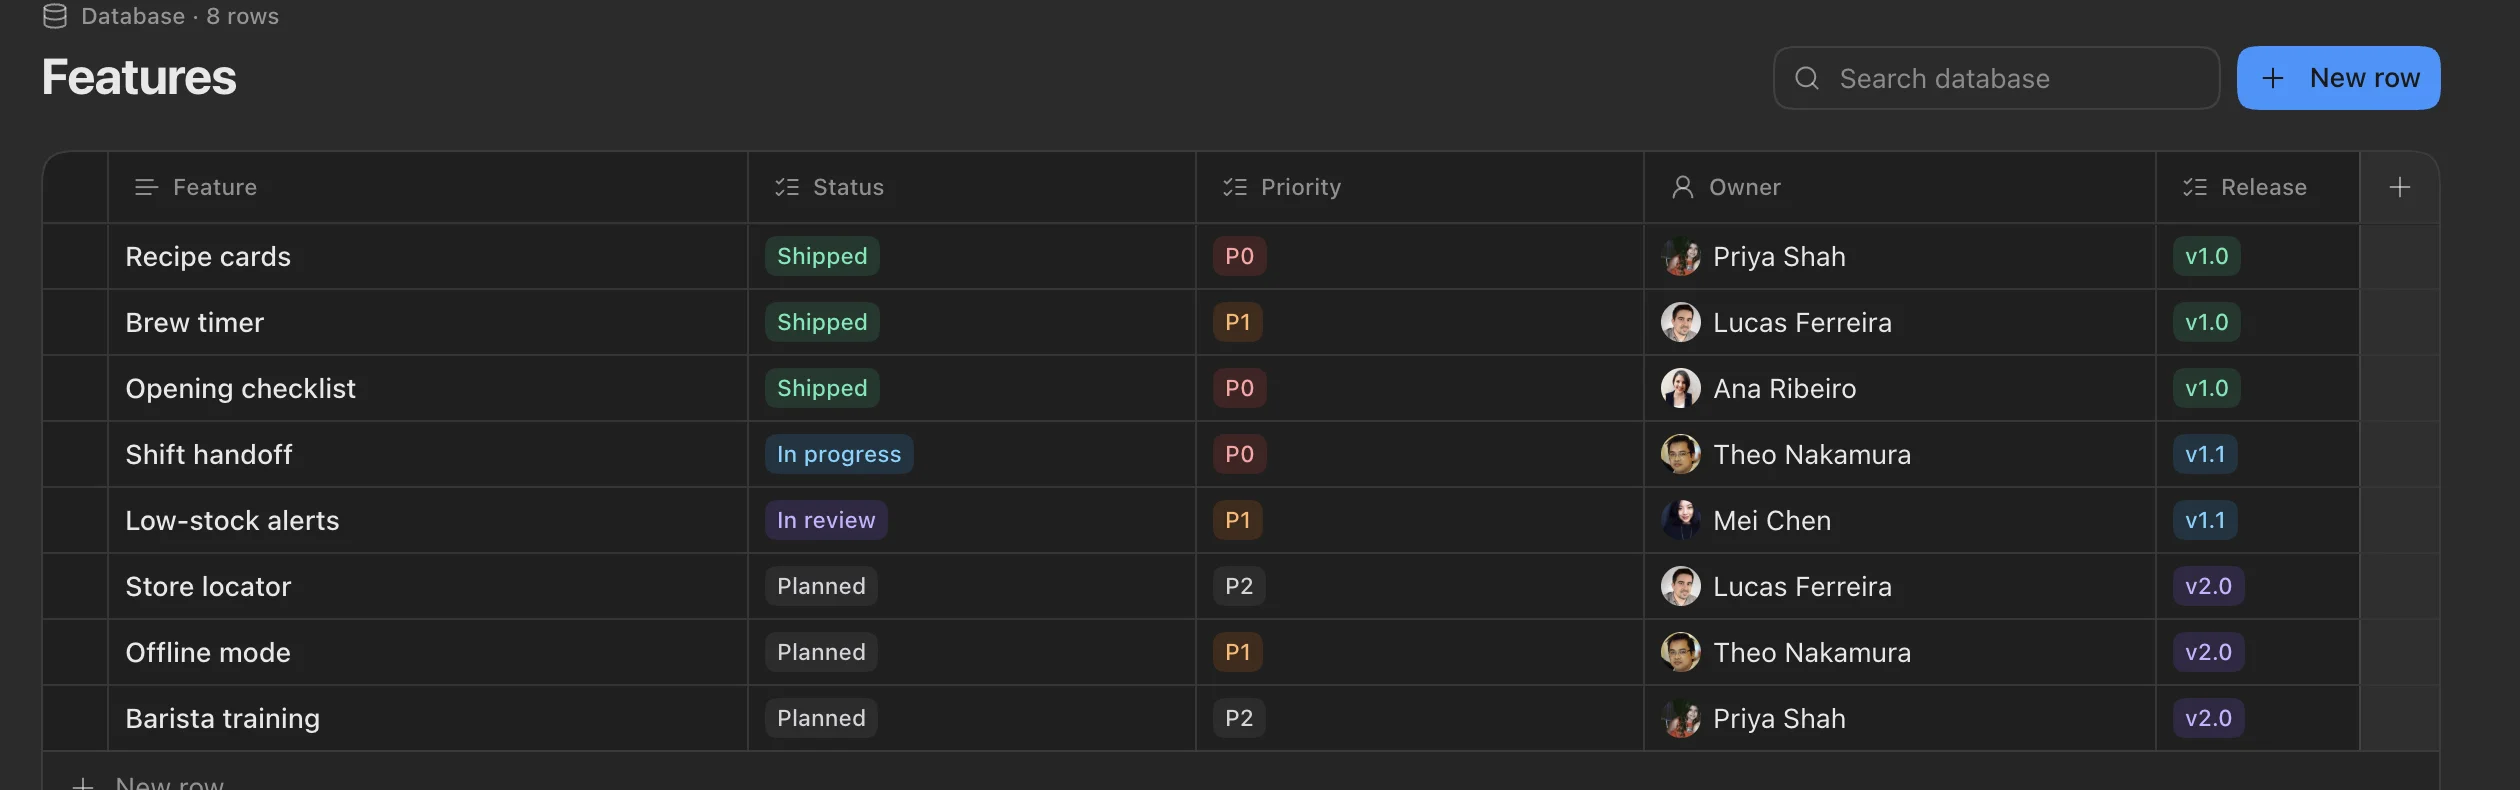
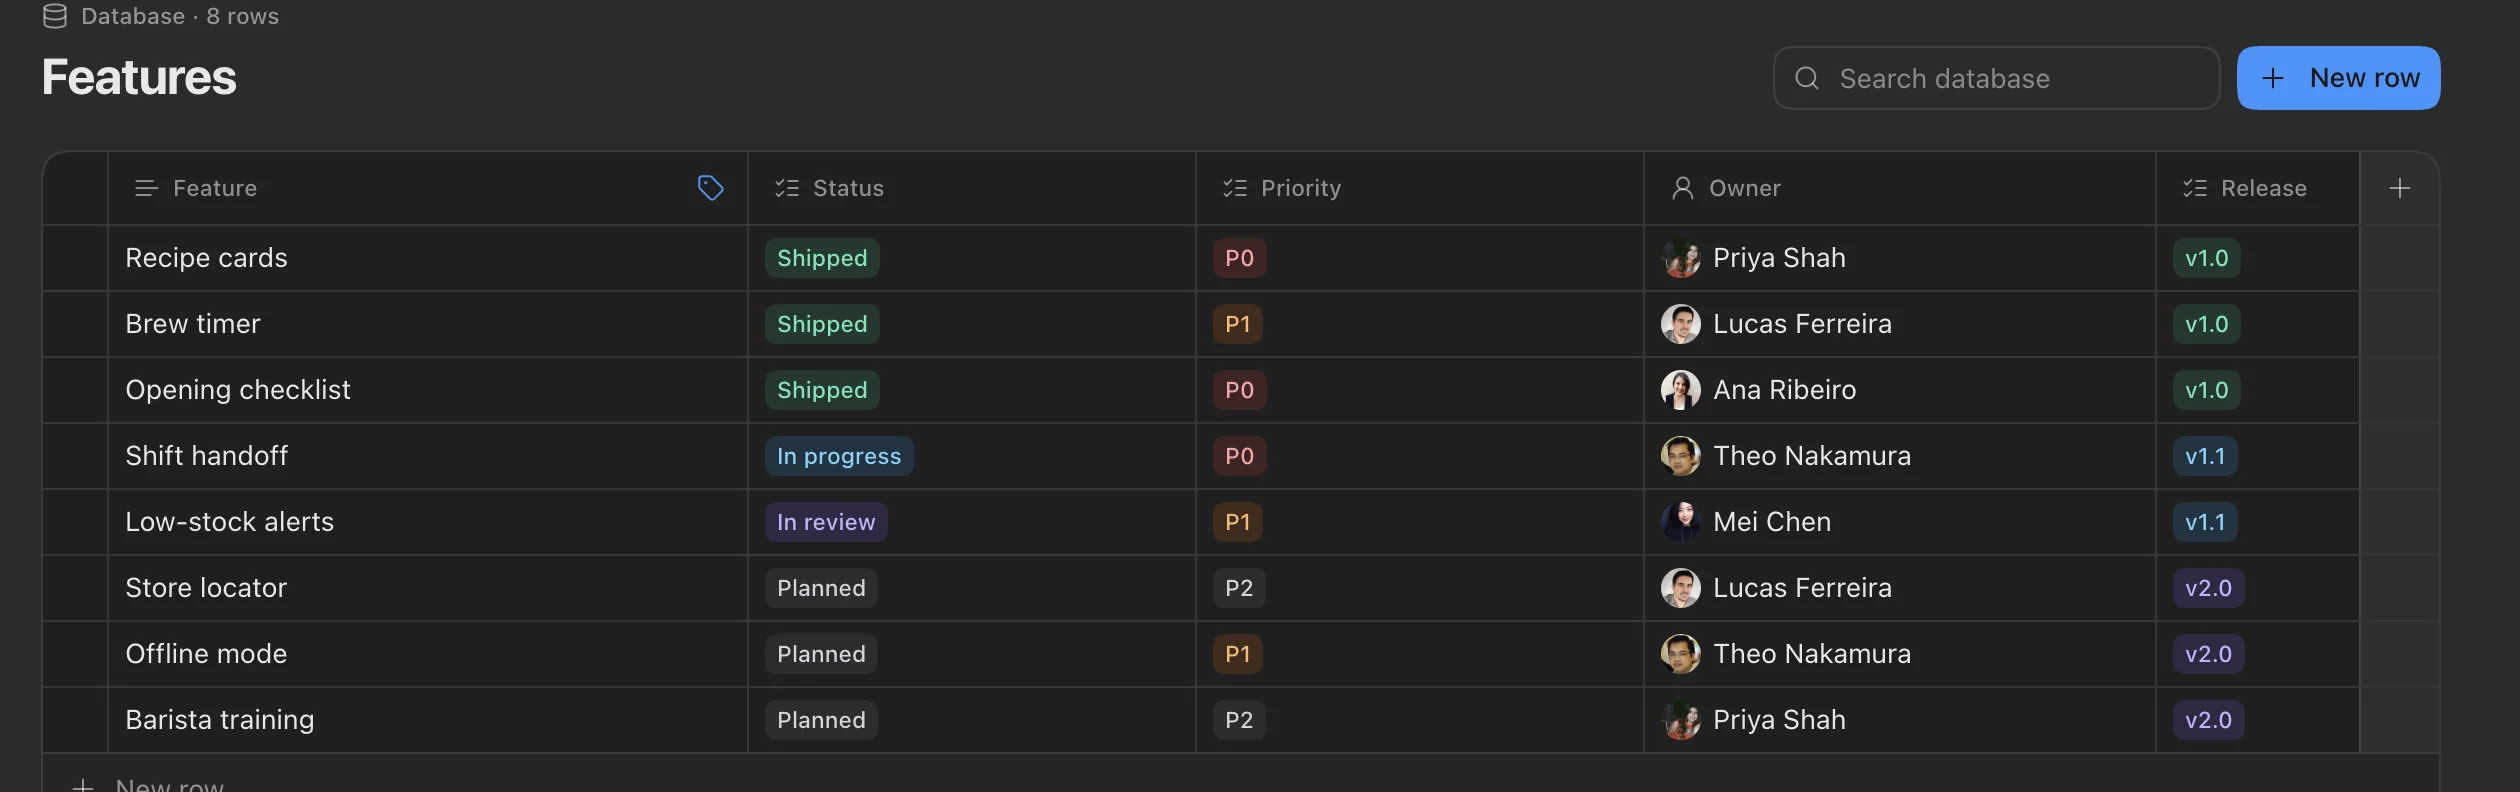
Help: data views made by Claude, column order, label column, Group by

diff --git a/src/content/docs/databases.md b/src/content/docs/databases.md
@@ -36,9 +36,9 @@ Click a column title to rename it, change its type, move it or delete it. Click 
 | **Link** | A web address |
 | **Image** | A picture |
 
-The first column is the **name** of each row. It's what `@` searches and what a mention shows.
+One column is the **label** of each row, marked with a tag next to its name. It's what `@` searches, what a mention shows and the title of each card. A database always has one. To pick another, point at a column's title and click its tag, **Use as label** (or click the title and choose **Use as Label**). Picture columns can't be the label.
 
-To reorder the columns, drag a column's title left or right. The name column can move too.
+To reorder the columns, drag a column's title left or right. The label column can move too.
 
 :::tip
 Changing a column to **Select** turns the text already in it into options.
@@ -137,7 +137,21 @@ Type **/** and choose **Data view**, then pick the database and a view. A view s
 | **Chart** | Bars, pie, line or a single bar (one horizontal bar split by each group's share, like the pie). Count the rows, or add up / average a Number column, grouped by a column (e.g. hours by role). **Show** picks one value of that column: *All* counts every role, *Designer* counts only the designers. Turn on **Show legend** to list each group with its color and value under the chart. **Colors** › *Shades of one color* uses light to dark tones of a single color (the biggest value is the darkest), easier to tell apart if you are color-blind. To change its width, click the chart and drag the handle on either side |
 | **Detail** | Names on the left, every field of the selected row on the right. **Menu title** picks what each row shows in that list (the name, another text or a date) and **Description** adds a smaller line under it, up to 2 lines. To make it taller or shorter, point at it and drag the handle at the bottom. Double-click the handle to go back to the original height |
 
-You can choose which fields appear, the order, and show only the rows with one option (e.g. only *Baristas*). Click the gear on the view to change it later.
+Click the gear on the view to change it later. In **Fields**:
+
+- tick the fields to show. At least one stays ticked;
+- drag the handle on the left to change the order. You can also focus the handle and press <kbd>↑</kbd> or <kbd>↓</kbd>.
+
+In a **List**, the [label column](#columns) is a column like any other: put it anywhere (for example, *Command* first and the label after it) or untick it to hide it. In **Cards** and **Detail**, it's always the title of each row, so it isn't in the list.
+
+**Group by** (List and Cards): pick a column, such as *Status* or *Owner*, and the rows are split into groups, each with a heading and how many rows it has. Groups follow the order of the options (for a Select column), the dates or the numbers, or go A to Z; rows without a value go last, under *No …*. The grouped column isn't repeated in the rows: its value is the heading. The label, Rich text and Image columns can't group. Click a group's heading to collapse it, and click again to open it. Collapsed groups open again the next time you open the document.
+
+**Example:** a **List** of *Features* grouped by *Status* shows *Shipped*, *In progress* and *Planned*, each with its features below.
+
+You can also sort the rows (inside each group) and show only the rows with one option (e.g. only *Baristas*).
+
+<img class="shot shot-light" src="../screenshots/database-view-settings-light.webp" width="672" alt="The Data view settings, with the fields in a list to drag into order" />
+<img class="shot shot-dark" src="../screenshots/database-view-settings-dark.webp" width="672" alt="The Data view settings, with the fields in a list to drag into order" />
 
 **Cover** (Cards and Detail): turn on **Show an image on top** to use a picture column as the cover of each row, and pick which one if the database has more than one (e.g. *Photo* or *Logo*). The chosen column isn't repeated in the fields. Turn it off for cards and details without a picture on top.
 
@@ -157,4 +171,11 @@ Data views only exist in `.mdoc` documents. In a `.md` document, mentions are ke
 
 ## With AI
 
-AI apps connected to MarkPlus can read databases, add and update rows, and write mentions in your documents. For example: *"Add Bia, bia@cafe.com, Barista, to the Team database and mention her in the Opening checklist."* See [Writing with AI](../ai/).
+AI apps connected to MarkPlus can read databases, add and update rows, write mentions and add [data views](#show-a-database-in-a-document) to your documents. For example:
+
+- *"Add Bia, bia@cafe.com, Barista, to the Team database and mention her in the Opening checklist."*
+- *"Create a Suppliers database with name, phone and city, and show it as a list at the end of this document, sorted by city."*
+- *"Add a pie chart of the Team database by role below the Staff title."*
+- *"Show the Features database as cards grouped by status."*
+
+Data views only fit in `.mdoc` documents: in a `.md` document, the AI adds a link to the database instead. See [Writing with AI](../ai/).
